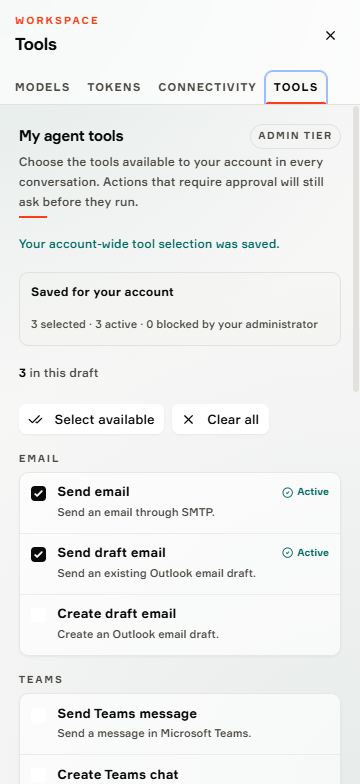
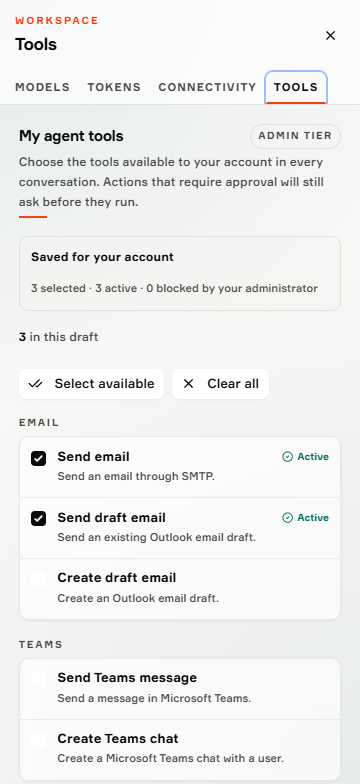
fix: harden tool permission panel lifecycle

diff --git a/src/app/components/ToolPermissionsSidebar.tsx b/src/app/components/ToolPermissionsSidebar.tsx
@@ -41,6 +41,7 @@ export function ToolPermissionsSidebar() {
   const draftGeneration = useRef(0);
   const requestGeneration = useRef(0);
   const mutationGeneration = useRef(0);
+  const accountGeneration = useRef(0);
   const loadController = useRef<AbortController | null>(null);
   const saveController = useRef<AbortController | null>(null);
 
@@ -87,6 +88,7 @@ export function ToolPermissionsSidebar() {
   );
 
   useEffect(() => {
+    accountGeneration.current += 1;
     requestGeneration.current += 1;
     loadController.current?.abort();
     saveController.current?.abort();
@@ -94,6 +96,7 @@ export function ToolPermissionsSidebar() {
     draftRef.current = [];
     setSnapshot(null);
     setDraft([]);
+    setSaving(false);
     setPolicyResolved(false);
     setPolicyReviewRequired(false);
     setSavedNotice(null);
@@ -108,6 +111,7 @@ export function ToolPermissionsSidebar() {
       loadController.current?.abort();
       saveController.current?.abort();
       requestGeneration.current += 1;
+      accountGeneration.current += 1;
     };
   }, [accountKey, loadPermissions]);
 
@@ -138,12 +142,18 @@ export function ToolPermissionsSidebar() {
     if (!baseline || !canSave) return;
     const submittedDraft = [...draftRef.current];
     const submittedGeneration = draftGeneration.current;
+    const submittedAccountGeneration = accountGeneration.current;
+    const submittedAccountKey = accountKey;
     saveController.current?.abort();
     const controller = new AbortController();
     saveController.current = controller;
     setSaving(true);
     setError(null);
     setSavedNotice(null);
+    const isCurrentSave = () =>
+      !controller.signal.aborted &&
+      accountGeneration.current === submittedAccountGeneration &&
+      accountKey === submittedAccountKey;
     try {
       const response = await apiSetUserToolPermissions(
         submittedDraft,
@@ -151,7 +161,7 @@ export function ToolPermissionsSidebar() {
         baseline.tier_revision,
         controller.signal
       );
-      if (controller.signal.aborted) return;
+      if (!isCurrentSave()) return;
       mutationGeneration.current += 1;
       snapshotRef.current = response;
       setSnapshot(response);
@@ -162,9 +172,10 @@ export function ToolPermissionsSidebar() {
       setPolicyReviewRequired(false);
       setSavedNotice("Your account-wide tool selection was saved.");
     } catch (cause) {
-      if (controller.signal.aborted) return;
+      if (!isCurrentSave()) return;
       if (cause instanceof ToolPermissionsApiError && cause.status === 409) {
         await loadPermissions(true);
+        if (!isCurrentSave()) return;
         setPolicyReviewRequired(true);
         setError(
           `${cause.message} Your draft is still here. Review the refreshed restrictions before saving again.`
@@ -173,7 +184,7 @@ export function ToolPermissionsSidebar() {
         setError(errorMessage(cause, "Failed to save your tool selection."));
       }
     } finally {
-      if (!controller.signal.aborted) setSaving(false);
+      if (isCurrentSave()) setSaving(false);
     }
   };
 
@@ -225,20 +236,31 @@ export function ToolPermissionsSidebar() {
                       Retry
                     </Button>
                   ) : null}
-                  {policyReviewRequired ? (
-                    <Button
-                      type="button"
-                      size="sm"
-                      variant="outline"
-                      onClick={() => setPolicyReviewRequired(false)}
-                    >
-                      <CheckCheck className="mr-1.5 h-3.5 w-3.5" />I reviewed
-                      the refreshed restrictions
-                    </Button>
-                  ) : null}
                 </div>
               </div>
             </div>
+          </div>
+        ) : null}
+
+        {policyReviewRequired ? (
+          <div
+            role="status"
+            className="border-[var(--aptiv-orange)]/35 bg-[var(--aptiv-orange)]/5 rounded-lg border p-3 text-xs text-foreground"
+          >
+            <p>
+              Your tool policy was refreshed. Your unsaved draft is still here;
+              review the current restrictions before saving again.
+            </p>
+            <Button
+              type="button"
+              size="sm"
+              variant="outline"
+              className="mt-2"
+              onClick={() => setPolicyReviewRequired(false)}
+            >
+              <CheckCheck className="mr-1.5 h-3.5 w-3.5" />I reviewed the
+              refreshed restrictions
+            </Button>
           </div>
         ) : null}
 
@@ -327,9 +349,7 @@ export function ToolPermissionsSidebar() {
               catalog={snapshot.catalog}
               selectedIds={draft}
               allowedIds={snapshot.allowed_tool_ids}
-              effectiveIds={draft.filter((id) =>
-                snapshot.allowed_tool_ids.includes(id)
-              )}
+              effectiveIds={snapshot.effective_tool_ids}
               idPrefix={`personal-tools-${accountKey}`}
               saving={saving}
               onToggle={toggleTool}

diff --git a/src/app/components/tool-permissions/ToolPermissionList.tsx b/src/app/components/tool-permissions/ToolPermissionList.tsx
@@ -52,6 +52,8 @@ export function ToolPermissionList({
               const checked = selectedIds.includes(tool.id);
               const allowed = allowedIds.includes(tool.id);
               const effective = effectiveIds.includes(tool.id);
+              const pendingSelection = checked && allowed && !effective;
+              const pendingRemoval = !checked && effective;
               const disabled =
                 saving || !canToggleTool(tool.id, selectedIds, allowedIds);
               const controlId = `${idPrefix}-${tool.id}`;
@@ -91,6 +93,14 @@ export function ToolPermissionList({
                             aria-hidden="true"
                           />
                           Blocked by administrator
+                        </span>
+                      ) : pendingSelection ? (
+                        <span className="border-[var(--aptiv-orange)]/30 bg-[var(--aptiv-orange)]/5 inline-flex shrink-0 items-center gap-1 rounded-full border px-2 py-0.5 text-[10px] font-semibold text-[var(--aptiv-orange)]">
+                          Pending save
+                        </span>
+                      ) : pendingRemoval ? (
+                        <span className="border-[var(--aptiv-orange)]/30 bg-[var(--aptiv-orange)]/5 inline-flex shrink-0 items-center gap-1 rounded-full border px-2 py-0.5 text-[10px] font-semibold text-[var(--aptiv-orange)]">
+                          Pending removal
                         </span>
                       ) : effective ? (
                         <span className="inline-flex shrink-0 items-center gap-1 text-[10px] font-semibold text-[var(--aptiv-turquoise-dark)] dark:text-[var(--aptiv-turquoise)]">

diff --git a/src/app/components/admin/ToolPermissionsSection.tsx b/src/app/components/admin/ToolPermissionsSection.tsx
@@ -248,20 +248,32 @@ export function ToolPermissionsSection() {
                     Retry
                   </Button>
                 ) : null}
-                {reviewTier === activeTier ? (
-                  <Button
-                    type="button"
-                    size="sm"
-                    variant="outline"
-                    onClick={() => setReviewTier(null)}
-                  >
-                    <CheckCheck className="mr-1.5 h-3.5 w-3.5" />I reviewed the
-                    refreshed policy
-                  </Button>
-                ) : null}
               </div>
             </div>
           </div>
+        </div>
+      ) : null}
+
+      {reviewTier === activeTier ? (
+        <div
+          role="status"
+          className="border-[var(--aptiv-orange)]/35 bg-[var(--aptiv-orange)]/5 rounded-lg border p-3 text-xs text-foreground"
+        >
+          <p>
+            The {activeTier} tier policy was refreshed. Your unsaved draft is
+            still here; review the current catalog and restrictions before
+            saving again.
+          </p>
+          <Button
+            type="button"
+            size="sm"
+            variant="outline"
+            className="mt-2"
+            onClick={() => setReviewTier(null)}
+          >
+            <CheckCheck className="mr-1.5 h-3.5 w-3.5" />I reviewed the
+            refreshed policy
+          </Button>
         </div>
       ) : null}
 
